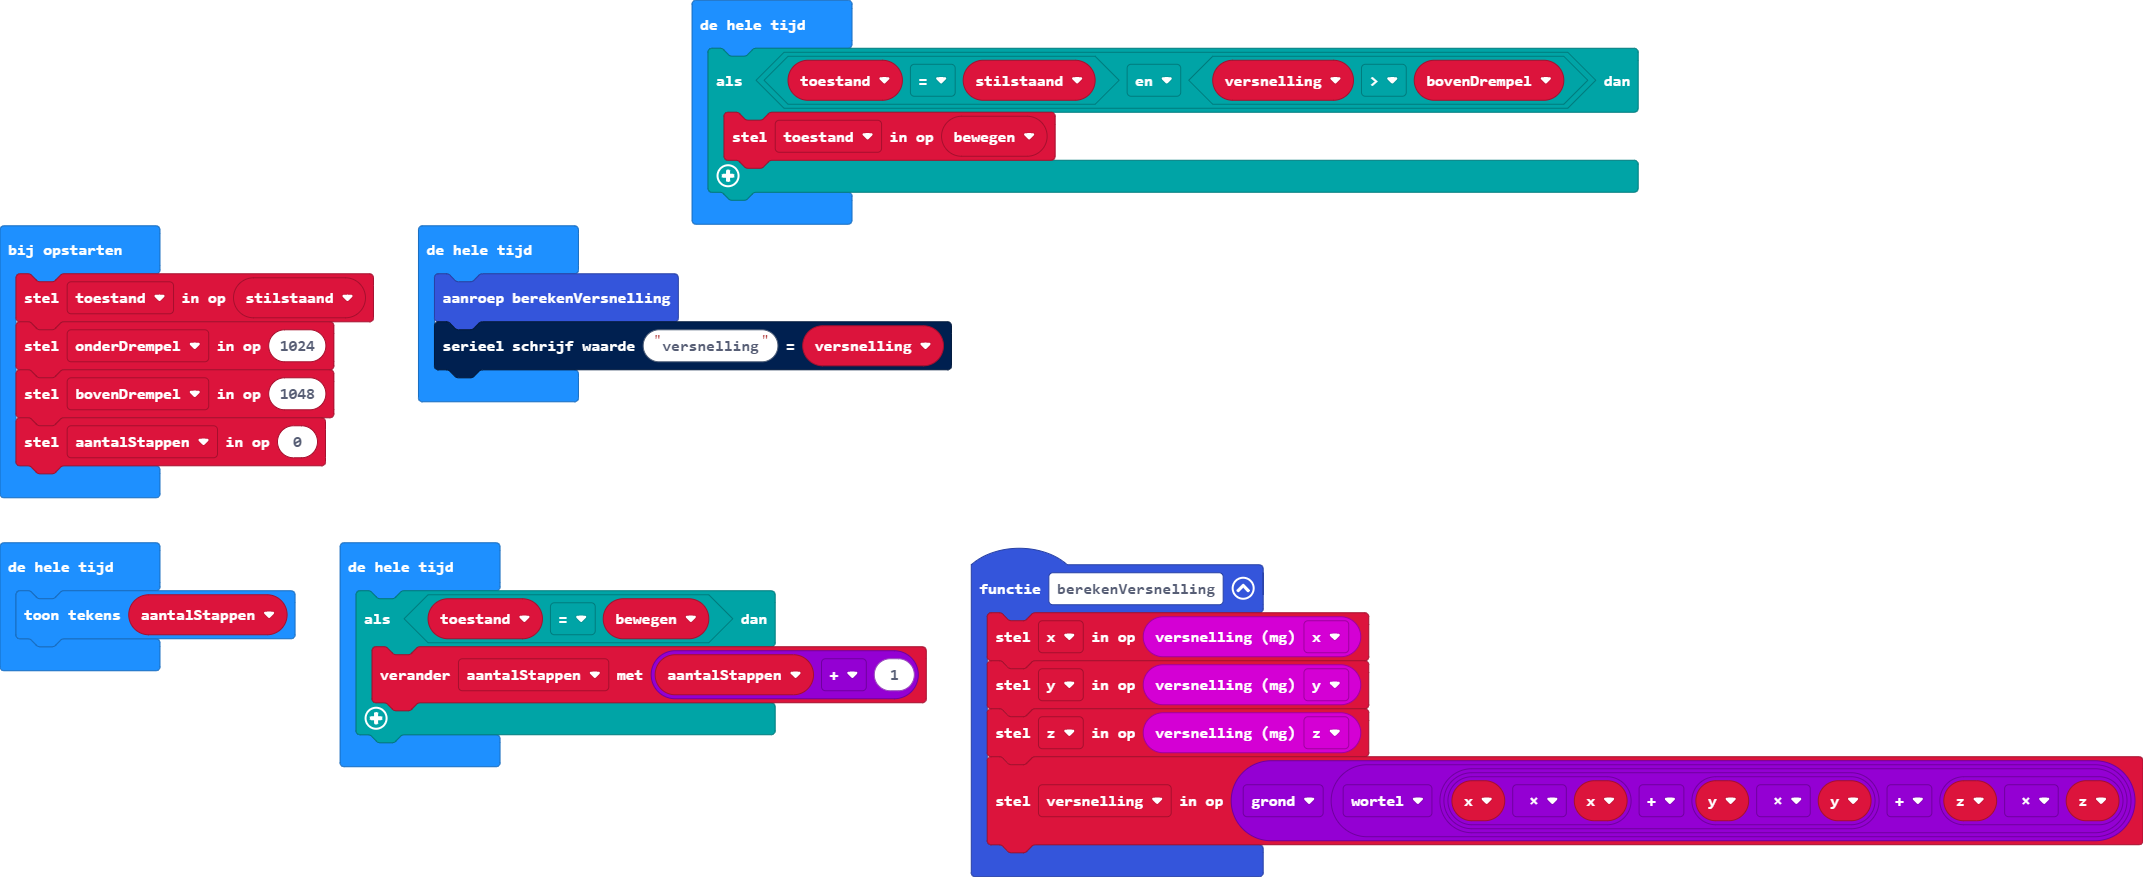
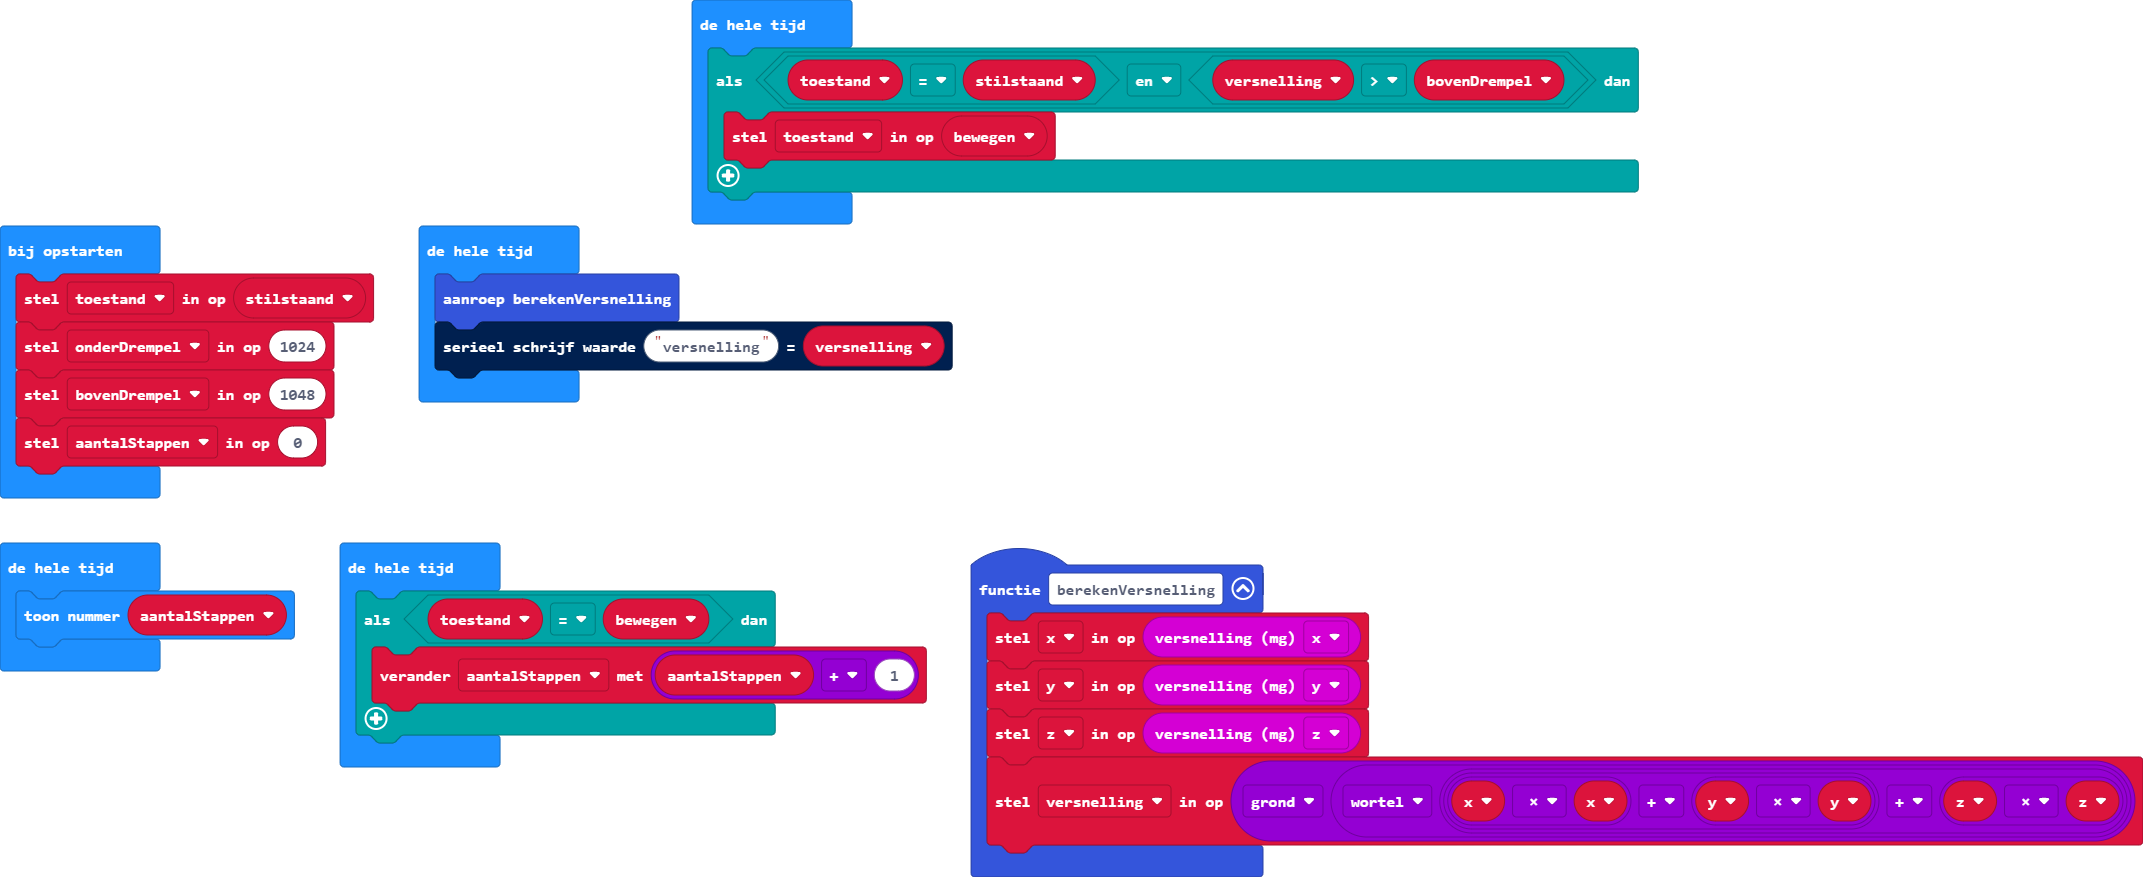
main.blocks, main.ts bijwerken

diff --git a/main.ts b/main.ts
@@ -24,7 +24,7 @@ basic.forever(function () {
     serial.writeValue("versnelling", versnelling)
 })
 basic.forever(function () {
-    basic.showString("" + (aantalStappen))
+    basic.showNumber(aantalStappen)
 })
 basic.forever(function () {
     if (toestand == bewegen) {
